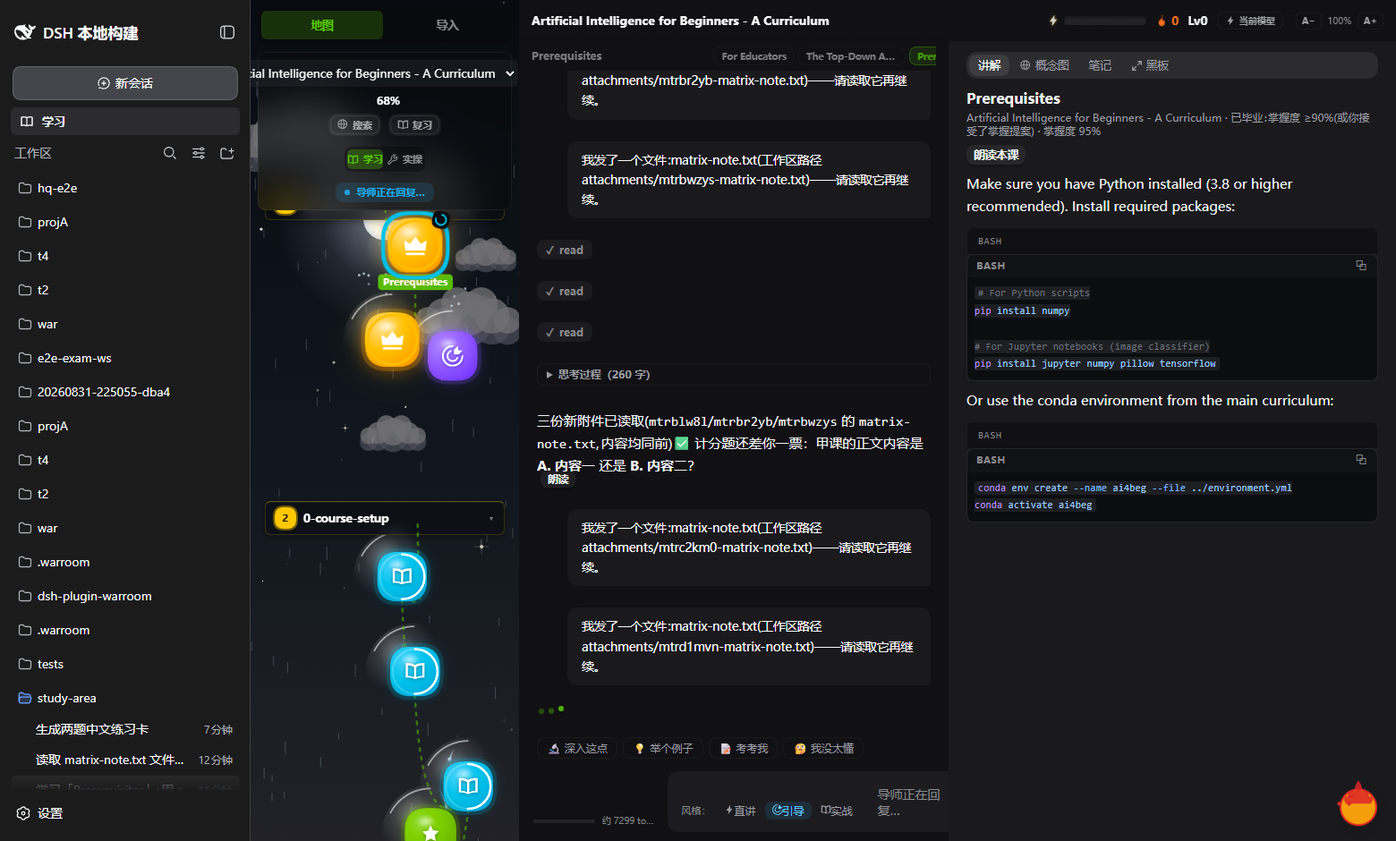
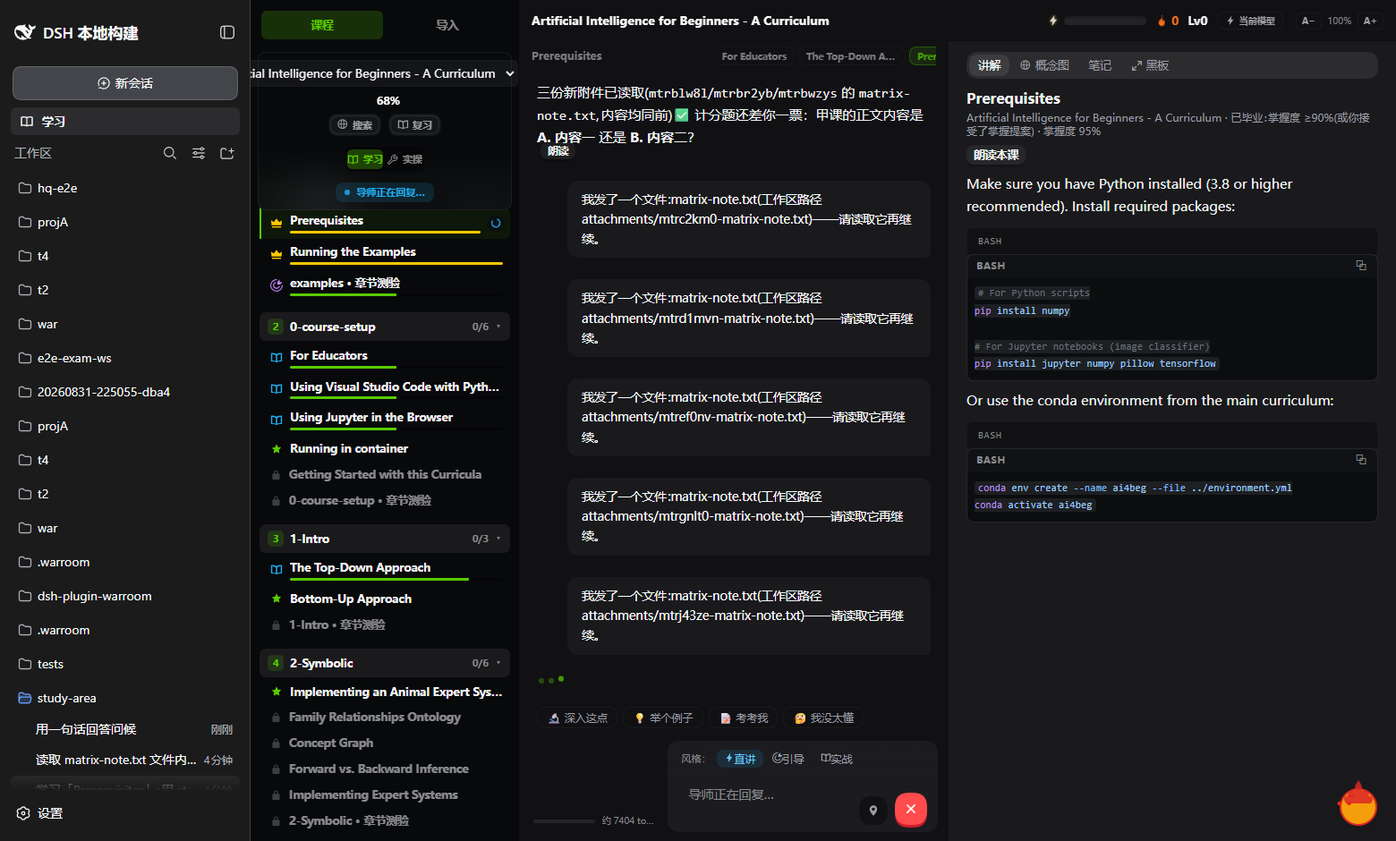
fix(ui): impeccable critique round — the headline catch was the LIGHT THEME being dead CSS: a stray orphan comment fragment (left by the list-pivot line surgery) merged into the next rule's prelude, silently dropping the entire .lks-ui[data-lks-theme='light'] token block (three-way confirmed by the 

diff --git a/src/client/upstream-theme.ts b/src/client/upstream-theme.ts
@@ -65,7 +65,7 @@ export const UPSTREAM_CSS = `
 .lks-ui .lks-hdr-title{flex:1;min-width:0;font-size:.825rem;font-weight:700;color:var(--ink-strong);overflow:hidden;text-overflow:ellipsis;white-space:nowrap}
 .lks-ui .lks-hdr-xp{display:flex;align-items:center;gap:5px;flex:none}
 .lks-ui .lks-hdr-xpbar{width:92px;height:10px;border-radius:999px;background:rgb(var(--ink-rgb)/0.08);overflow:hidden;box-shadow:inset 0 2px 3px rgb(var(--shadow-rgb)/0.3)}
-.lks-ui .lks-hdr-xpbar i{display:block;height:100%;background:linear-gradient(90deg,var(--gold),var(--gold-light));border-radius:999px;transition:width .5s var(--ease-out-expo)}
+.lks-ui .lks-hdr-xpbar i{display:block;height:100%;background:linear-gradient(90deg,var(--gold),var(--gold-light));border-radius:999px;transform-origin:left;transition:transform .5s var(--ease-out-expo)}
 .lks-ui .lks-hdr-stat{display:inline-flex;align-items:center;gap:4px;font-size:.825rem;font-weight:700;color:var(--ink);flex:none}
 .lks-ui .lks-hdr-streak{color:var(--review)}
 
@@ -101,9 +101,9 @@ export const UPSTREAM_CSS = `
 
 /* ── the composer capsule (claude.ai style) + circular 3D send ── */
 .lks-ui .lks14-composer{border-top:none;background:linear-gradient(to bottom,transparent 0%,var(--surface-1) 40%)}
-.lks-ui .lks14-composer-card{flex:1;display:flex;align-items:flex-end;gap:8px;background:rgb(var(--ink-rgb)/0.05);border-radius:1rem;padding:.625rem .75rem .5rem .875rem;transition:background .15s}
+.lks-ui .lks14-composer-card{flex:1;display:flex;flex-wrap:wrap;align-items:flex-end;gap:8px;background:rgb(var(--ink-rgb)/0.05);border-radius:1rem;padding:.625rem .75rem .5rem .875rem;transition:background .15s}
 .lks-ui .lks14-composer-card:focus-within{background:rgb(var(--ink-rgb)/0.07)}
-.lks-ui .lks14-composertext{background:transparent;border:none;box-shadow:none;color:var(--ink-strong);font-size:.875rem}
+.lks-ui .lks14-composertext{background:transparent;border:none;box-shadow:none;color:var(--ink-strong);font-size:.875rem;flex:1 1 120px;min-width:0}
 .lks-ui .lks14-composertext:focus{border-color:transparent}
 .lks-ui .lks14-composertext::placeholder{color:var(--ink-faint)}
 .lks-ui .lks-btn-send{width:36px;height:36px;border-radius:999px !important;padding:0 !important;display:inline-flex;align-items:center;justify-content:center;flex:none;background:var(--brand);color:#fff;box-shadow:0 3px 0 0 var(--brand-dark);border:none;cursor:pointer;transition:all .15s var(--ease-spring)}
@@ -207,12 +207,13 @@ export const UPSTREAM_CSS = `
 .lks-ui .lks-lessorow.st-available .lks-lessorow-glyph{color:var(--brand)}
 .lks-ui .lks-lessorow.st-in-progress .lks-lessorow-glyph{color:var(--accent)}
 .lks-ui .lks-lessorow.st-mastered .lks-lessorow-glyph{color:var(--gold)}
-.lks-ui .lks-lessorow.st-mastered .lks-lessorow-glyph svg{animation:lks-crown-sparkle 1.6s ease-in-out infinite}
+.lks-ui .lks-lessorow.st-mastered .lks-lessorow-glyph svg{animation:lks-crown-sparkle 1.6s ease-in-out 2}
 .lks-ui .lks-lessorow.st-exam .lks-lessorow-glyph,.lks-ui .lks-lessorow.st-exam-passed .lks-lessorow-glyph{color:var(--exam-light)}
 .lks-ui .lks-lessorow-main{flex:1;min-width:0;display:flex;flex-direction:column;gap:3px}
 .lks-ui .lks-lessorow-title{font-size:12.5px;font-weight:600;line-height:1.35;color:var(--ink);overflow:hidden;text-overflow:ellipsis;white-space:nowrap}
 .lks-ui .lks-lessorow-bar{display:block;height:3px;border-radius:2px;background:rgb(0 0 0/0.4);overflow:hidden}
 .lks-ui .lks-lessorow-bar i{display:block;height:100%;background:var(--brand);transform-origin:left;transition:transform .3s var(--ease-out-expo)}
+.lks-ui .lks-lessorow:focus-visible,.lks-ui .lks-railsec-head:focus-visible{outline:none;box-shadow:0 0 0 2px var(--business-primary)}
 .lks-ui .lks-lessorow.st-mastered .lks-lessorow-bar i{background:var(--gold)}
 .lks-ui .lks-lessorow-due{flex:none;min-width:15px;height:15px;display:inline-flex;align-items:center;justify-content:center;border-radius:999px;background:var(--review);color:#fff;font-size:10px;font-weight:800;box-shadow:0 0 0 2px var(--surface-1)}
 .lks-ui .lks-lessorow-spin{flex:none;display:flex;align-items:center;justify-content:center;width:17px;height:17px;border-radius:999px;background:var(--surface-0);color:var(--accent);box-shadow:0 2px 8px -2px rgb(var(--shadow-rgb)/0.45);pointer-events:none;animation:lks-spin 1s linear infinite}
@@ -353,13 +354,13 @@ export const UPSTREAM_CSS = `
 .lks-ui .lks14-raildemo{margin-bottom:10px}
 /* the full-rail overlays (search / review) */
 .lks-ui .lks-railoverlay{position:absolute;inset:0;z-index:50;display:flex;flex-direction:column;gap:8px;padding:12px;overflow-y:auto;
-  background:rgb(var(--surface-rail-rgb)/0.92);backdrop-filter:blur(8px);-webkit-backdrop-filter:blur(8px)}
+  background:rgb(var(--surface-rail-rgb)/0.97);backdrop-filter:blur(8px);-webkit-backdrop-filter:blur(8px)}
 .lks-ui .lks-railoverlay-head{display:flex;gap:8px;align-items:center}
 .lks-ui .lks-railoverlay-head .lks14-search{flex:1}
 /* chat: thin current-lesson row (ThreadSwitcher empty-state voice) */
 .lks-ui .lks14-lessonrow{flex:none;padding:6px 14px;font-size:12px;font-weight:700;color:var(--ink-muted);opacity:.75}
 /* composer: the soul pills ride the capsule's first row */
-.lks-ui .lks14-soulrow{display:flex;align-items:center;gap:6px;padding:0 2px 6px}
+.lks-ui .lks14-soulrow{display:flex;align-items:center;gap:6px;padding:0 2px 6px;width:100%}
 .lks-ui .lks14-soullabel{flex:none;font-size:11px;color:var(--ink-faint)}
 /* B6: assistant text is full-width prose (no card); user bubbles right-align */
 .lks-ui .lks14-msg-assistant{background:none;border:none;box-shadow:none;border-radius:0;padding:0;max-width:80ch;font-size:.9375rem}
@@ -502,7 +503,7 @@ export const UPSTREAM_CSS = `
 .lks-ui .lks14-exam-timer.warn{color:var(--warning-light);animation:lks-exam-timer-pulse 1s ease-in-out infinite}
 @keyframes lks-exam-timer-pulse{50%{opacity:.55}}
 .lks-ui .lks14-exam-track{height:6px;border-radius:999px;background:rgb(var(--shadow-rgb)/0.16);overflow:hidden;margin-bottom:20px;flex:none}
-.lks-ui .lks14-exam-track i{display:block;height:100%;border-radius:999px;background:var(--accent);transition:width 300ms var(--ease-out-quart)}
+.lks-ui .lks14-exam-track i{display:block;height:100%;border-radius:999px;background:var(--accent);transform-origin:left;transition:transform 300ms var(--ease-out-quart)}
 .lks-ui .lks14-exam-scroll{flex:1;min-height:0;overflow-y:auto;padding:0 4px 24px}
 .lks-ui .lks14-exam-kc{display:inline-flex;align-items:center;gap:5px;font-size:11.5px;color:var(--accent);background:rgb(var(--accent-rgb)/0.1);border-radius:999px;padding:4px 11px;margin-bottom:12px}
 .lks-ui .lks14-exam-prompt{font-size:16.5px;color:var(--ink-strong);line-height:1.65;margin-bottom:20px;white-space:pre-wrap;overflow-wrap:anywhere}
@@ -621,7 +622,6 @@ export const UPSTREAM_CSS = `
 /* ── P16: the light theme — upstream html.light verbatim, keyed to the panel's
    data-lks-theme (the host-following store drives it). Semantic hues keep
    their hue, only L drops for WCAG AA on white; shiki flips via --shiki-light. ── */
-   dark stones; shiki flips via --shiki-light. ── */
 .lks-ui[data-lks-theme='light']{
   --surface-rail:#F1F2F4;--surface-rail-rgb:241 242 244;
   --surface-0:#FFFFFF;--surface-0-rgb:255 255 255;
@@ -691,7 +691,7 @@ export const UPSTREAM_CSS = `
 /* E1: the context meter above the composer */
 .lks-ui .lks14-ctxmeter{display:flex;align-items:center;gap:8px;padding:0 4px 6px;font-size:10px;color:var(--ink-faint)}
 .lks-ui .lks14-ctxmeter-bar{flex:1;height:4px;border-radius:999px;background:rgb(var(--ink-rgb)/0.08);overflow:hidden}
-.lks-ui .lks14-ctxmeter-bar i{display:block;height:100%;border-radius:999px;background:var(--brand);transition:width .3s var(--ease-out-expo)}
+.lks-ui .lks14-ctxmeter-bar i{display:block;height:100%;border-radius:999px;background:var(--brand);transform-origin:left;transition:transform .3s var(--ease-out-expo)}
 .lks-ui .lks14-ctxmeter-bar i.hot{background:var(--warning)}
 .lks-ui .lks14-ctxmeter-label{flex:none;max-width:45%;overflow:hidden;text-overflow:ellipsis;white-space:nowrap}
 /* E6: the model face chip + catalog popover */
@@ -712,4 +712,34 @@ export const UPSTREAM_CSS = `
 .lks-ui .lks-btn-attach:hover:not(:disabled){color:var(--ink);background:var(--surface-2)}
 .lks-ui .lks-btn-attach:disabled{opacity:.4;cursor:not-allowed}
 .lks-ui .lks-btn-attach:focus-visible{box-shadow:0 0 0 2px var(--business-primary);outline:none}
+/* ── light-mode chrome sweep: the rail-head glass family hardcoded dark for
+   the map era; the list rail follows the theme, so the chrome reads
+   ink-on-surface here too ── */
+.lks-ui[data-lks-theme='light'] .lks14-railhead{background:rgb(255 255 255/0.72);border-color:var(--border-faint);box-shadow:0 1px 4px rgb(0 0 0/0.05)}
+.lks-ui[data-lks-theme='light'] .lks14-railtitle{color:var(--ink-strong);text-shadow:none}
+.lks-ui[data-lks-theme='light'] .lks14-railpct{color:var(--ink-strong);text-shadow:none}
+.lks-ui[data-lks-theme='light'] .lks-railtabs{background:rgb(255 255 255/0.72);box-shadow:0 1px 4px rgb(0 0 0/0.05)}
+.lks-ui[data-lks-theme='light'] .lks-railtab{color:var(--ink-muted)}
+.lks-ui[data-lks-theme='light'] .lks-railtab.on{color:var(--brand-dark)}
+.lks-ui[data-lks-theme='light'] .lks-railpill{background:rgb(0 0 0/0.04);box-shadow:inset 0 0 0 1px var(--border-faint);color:var(--ink)}
+.lks-ui[data-lks-theme='light'] .lks-railpill:hover{background:rgb(0 0 0/0.07)}
+.lks-ui[data-lks-theme='light'] .lks14-search{background:rgb(0 0 0/0.03);border-color:var(--border-faint)}
+.lks-ui[data-lks-theme='light'] .lks14-search::placeholder{color:var(--ink-faint)}
+.lks-ui[data-lks-theme='light'] .lks-worldswitch{background:rgb(0 0 0/0.05)}
+.lks-ui[data-lks-theme='light'] .lks-worldtab{color:var(--ink-muted)}
+.lks-ui[data-lks-theme='light'] .lks-worldtab:hover{color:var(--ink-strong)}
+.lks-ui[data-lks-theme='light'] .lks-worldtab.on{color:var(--brand-dark)}
+.lks-ui[data-lks-theme='light'] .lks-worldtab[data-testid='world-tab-practice'].on{color:var(--accent-dark)}
+.lks-ui[data-lks-theme='light'] .lks-empty-practice{color:var(--ink-muted)}
+.lks-ui[data-lks-theme='light'] .lks14-importtabs{background:rgb(0 0 0/0.04)}
+.lks-ui[data-lks-theme='light'] .lks14-importtab{color:var(--ink-muted)}
+.lks-ui[data-lks-theme='light'] .lks-railoverlay{background:rgb(241 242 244/0.97)}
+.lks-ui[data-lks-theme='light'] .lks-lessorow.st-mastered .lks-lessorow-glyph{color:var(--gold-dark)}
+.lks-ui[data-lks-theme='light'] .lks-lessorow.st-exam .lks-lessorow-glyph,.lks-ui[data-lks-theme='light'] .lks-lessorow.st-exam-passed .lks-lessorow-glyph{color:var(--exam)}
+.lks-ui[data-lks-theme='light'] .lks-lessorow-bar{background:rgb(0 0 0/0.08)}
+/* ambient glyph motion sleeps under reduced-motion (A7 never had a guard) */
+@media (prefers-reduced-motion: reduce){
+  .lks-ui .lks-lessorow.st-mastered .lks-lessorow-glyph svg,.lks-ui .lks-hdr-xp .lks-hdr-glyph,.lks-ui .lks-hdr-streak .lks-hdr-glyph{animation:none}
+}
+
 `

diff --git a/src/client/panel.tsx b/src/client/panel.tsx
@@ -586,7 +586,7 @@ function StudyPanelBody({ ctx }: { ctx: ClientContext }): ReactNode {
         createElement('span', { className: 'lks-hdr-title' }, lesson?.courseTitle ?? tr('tab.label')),
         createElement('span', { className: 'lks-hdr-xp', 'data-tooltip': tr('header.xp', { xp: progress?.totalXp ?? 0 }) },
           createElement('span', { className: 'lks-hdr-stat lks-hdr-glyph' }, createElement(IconBoltFill16, { size: 14 })),
-          createElement('span', { className: 'lks-hdr-xpbar' }, createElement('i', { style: { width: `${Math.min(100, progress?.levelPct ?? 0)}%` } }))),
+          createElement('span', { className: 'lks-hdr-xpbar' }, createElement('i', { style: { transform: `scaleX(${String(Math.min(100, progress?.levelPct ?? 0) / 100)})` } }))),
         createElement('span', { className: 'lks-hdr-stat lks-hdr-streak', 'data-tooltip': tr('header.streak') },
           createElement('span', { className: 'lks-hdr-glyph' }, createElement(IconFlameFill16, { size: 14 })),
           String(progress?.streak ?? 0)),
@@ -740,7 +740,7 @@ function CommandPalette({ searchLessons, courses, onClose, onLesson, onCourse, o
         actions.map(a => createElement('button', {
           key: a.id, className: 'lks14-palette-row', onClick: a.run,
         },
-          createElement('span', { className: 'lks14-palette-kind' }, '⌘K'),
+          createElement('span', { className: 'lks14-palette-kind' }, tr('palette.kind.action')),
           createElement('span', { className: 'lks14-palette-text' }, a.label))),
         lessons.length === 0 && courseRows.length === 0 && actions.length === 0
           ? createElement('div', { className: 'lks14-palette-empty' }, tr('palette.empty'))
@@ -1813,7 +1813,7 @@ function ChatPane({ data, lesson, rows, feedAttached, bound, busy, sendError, dr
       // pct + token pair; the estimate is labeled as such).
       createElement('div', { className: 'lks14-ctxmeter', 'data-testid': 'context-meter', 'data-estimated': String(contextMeter.estimated), title: tr('meter.label') },
         createElement('span', { className: 'lks14-ctxmeter-bar' },
-          createElement('i', { style: { width: `${String(contextMeter.pct ?? 0)}%` }, className: contextMeter.pct !== null && contextMeter.pct > 80 ? 'hot' : undefined })),
+          createElement('i', { style: { transform: `scaleX(${String((contextMeter.pct ?? 0) / 100)})` }, className: contextMeter.pct !== null && contextMeter.pct > 80 ? 'hot' : undefined })),
         createElement('span', { className: 'lks14-ctxmeter-label' }, contextMeter.estimated ? contextMeter.label : `${String(contextMeter.pct ?? 0)}% · ${contextMeter.label}`)),
       createElement('div', {
         className: 'lks14-composer-card',

diff --git a/src/client/locale.ts b/src/client/locale.ts
@@ -93,7 +93,7 @@ export const ZH: StudyDict = {
   'map.node.locked': '锁定 — 先完成前面的课时',
   'map.node.due': '到了复习时间',
   'map.exam.locked': '考试未解锁 — 本章节全部课时掌握度 ≥50% 后开放',
-  'map.tab.map': '地图',
+  'map.tab.map': '课程',
   'map.tab.import': '导入',
   'map.world.study': '学习',
   'map.world.practice': '实操',
@@ -183,6 +183,7 @@ export const ZH: StudyDict = {
   'palette.courses': '课程',
   'palette.review': '开始复习',
   'palette.study': '开始学习',
+  'palette.kind.action': '操作',
   'palette.empty': '没有匹配项',
   'threads.label': '课时线程',
   'meter.label': '上下文用量',
@@ -250,7 +251,7 @@ export const ZH: StudyDict = {
   'row.thinking.title': '导师正在推理,回复马上就来',
   'quiz.title': '点击选项作答,也可以直接打字回答',
   'quiz.answer': '选 {letter}:{text}',
-  'tutor.dormant': '学习模式已关闭 — 点右上「▶ 开始学习」开启导师,按钮恢复可用。',
+  'tutor.dormant': '学习模式已关闭 — 在下方对话区点「开始学习」即可唤醒导师。',
   'tutor.empty': '对话会出现在这里',
   'tutor.empty.hint': '在下方输入框和导师说话',
   'proposal.text': '导师提议你已掌握「{lesson}」:{rationale}',
@@ -438,7 +439,7 @@ export const EN: StudyDict = {
   'map.node.locked': 'Locked — finish the previous lessons first',
   'map.node.due': 'Due for review',
   'map.exam.locked': 'Exam locked — every lesson in this section needs ≥50% mastery',
-  'map.tab.map': 'Map',
+  'map.tab.map': 'Courses',
   'map.tab.import': 'Import',
   'map.world.study': 'Learn',
   'map.world.practice': 'Practice',
@@ -528,6 +529,7 @@ export const EN: StudyDict = {
   'palette.courses': 'Course',
   'palette.review': 'Start review',
   'palette.study': 'Start studying',
+  'palette.kind.action': 'Action',
   'palette.empty': 'No matches',
   'threads.label': 'Lesson threads',
   'meter.label': 'Context usage',
@@ -595,7 +597,7 @@ export const EN: StudyDict = {
   'row.thinking.title': 'The tutor is reasoning; the reply is coming',
   'quiz.title': 'Click an option to answer, or just type',
   'quiz.answer': 'Choose {letter}: {text}',
-  'tutor.dormant': 'Study mode is off — click "▶ Start learning" above to wake the tutor and re-enable these controls.',
+  'tutor.dormant': 'Study mode is off — click "Start learning" in the conversation pane below to wake the tutor.',
   'tutor.empty': 'The conversation will appear here',
   'tutor.empty.hint': 'Talk to the tutor in the input below',
   'proposal.text': 'The tutor proposes you have mastered "{lesson}": {rationale}',

diff --git a/src/client/maprail.tsx b/src/client/maprail.tsx
@@ -8,6 +8,7 @@
 import { createElement, type CSSProperties, type ReactNode } from 'react'
 import { IconBookFill16, IconCrownFill16, IconGoalOutline16, IconLoaderArc16, IconLockFill16, IconStarFill16 } from './icons.tsx'
 import { tr } from './locale.ts'
+import { statusTitle } from './views.tsx'
 
 /** The rail lesson projection (a structural slice of StudyData's section lessons). */
 export interface MapLesson {
@@ -79,13 +80,22 @@ export function ListSectionView({ section, examAllowed, open, onToggle, onJump, 
           const locked = lesson.status === 'locked' || (lesson.kind === 'exam' && !examAllowed)
           const pct = rowMasteryPct(lesson)
           const state = rowStateClass(lesson, examAllowed)
+          // the second tooltip slot carries STATE, not the title repeated:
+          // gating/lock/due when relevant, otherwise status + live mastery.
+          const stateWord = lesson.kind === 'exam' && !examAllowed
+            ? tr('map.exam.locked')
+            : locked
+              ? tr('map.node.locked')
+              : lesson.due
+                ? tr('map.node.due')
+                : `${statusTitle('study', lesson.status)}${pct !== null ? ` · ${String(pct)}%` : ''}`
           return createElement('button', {
             key: lesson.id,
             type: 'button',
             className: `lks-lessorow st-${state}${lesson.focus ? ' selected' : ''}`,
             'data-node-id': lesson.id,
             'aria-disabled': locked || undefined,
-            'data-tooltip': `${lesson.title} — ${lesson.kind === 'exam' && !examAllowed ? tr('map.exam.locked') : locked ? tr('map.node.locked') : lesson.due ? tr('map.node.due') : lesson.title}`,
+            'data-tooltip': `${lesson.title} — ${stateWord}`,
             onClick: () => { if (!locked) onJump(lesson.id) },
           },
           createElement('span', { className: 'lks-lessorow-glyph', 'aria-hidden': 'true' },

diff --git a/tests/client-node.test.ts b/tests/client-node.test.ts
@@ -183,6 +183,18 @@ test('the upstream v0.28 skin is layered over the panel foundation (P9a)', async
   assert.match(STUDY_CSS, /\.lks14-body\[data-pane='rail'\] \.lks14-righthalf\{display:none\}/, 'narrow rail mode hides the whole right half')
 })
 
+test('the light token block survives the CSS comment parse (P18 live regression)', async () => {
+  const { UPSTREAM_CSS } = await import('../src/client/upstream-theme.ts')
+  // a stray fragment outside a comment merges into the next rule's prelude and
+  // silently DROPS it — this killed the whole light theme once (2026-09-08,
+  // caught by the critique run: light hosts got a dark panel with light-only
+  // shiki/scrollbar fragments applied on top)
+  const stripped = UPSTREAM_CSS.replace(/\/\*[\s\S]*?\*\//g, '')
+  assert.match(stripped, /\.lks-ui\[data-lks-theme='light'\]\{\s*--surface-rail:#F1F2F4/, 'the light token ladder opens as a live rule once comments are stripped')
+  assert.match(stripped, /\.lks-ui\[data-lks-theme='light'\] \.lks14-railhead\{/, 'the light chrome sweep rides a live rule too')
+  assert.equal((UPSTREAM_CSS.match(/\/\*/g) ?? []).length, (UPSTREAM_CSS.match(/\*\//g) ?? []).length, 'comment delimiters stay balanced')
+})
+
 test('the audit gate script exists with an exit-code contract', async () => {
   const { readFileSync } = await import('node:fs')
   const src = readFileSync(new URL('../scripts/audit-ui.mjs', import.meta.url), 'utf8')

diff --git a/src/client/tooltip.tsx b/src/client/tooltip.tsx
@@ -59,16 +59,21 @@ export function GlobalTooltip(): ReactNode {
     const onUp = (): void => {
       if (pressTimer.current !== null) { clearTimeout(pressTimer.current); pressTimer.current = null }
     }
+    // a click dismisses — reading a tooltip over the thing you just acted on
+    // must not outlive the action
+    const onClick = (): void => { setTip(null) }
 
     document.addEventListener('pointermove', onMove)
     document.addEventListener('pointerleave', onLeave)
     document.addEventListener('pointerdown', onDown)
     document.addEventListener('pointerup', onUp)
+    document.addEventListener('click', onClick)
     return () => {
       document.removeEventListener('pointermove', onMove)
       document.removeEventListener('pointerleave', onLeave)
       document.removeEventListener('pointerdown', onDown)
       document.removeEventListener('pointerup', onUp)
+      document.removeEventListener('click', onClick)
       if (pressTimer.current !== null) clearTimeout(pressTimer.current)
     }
   }, [])

diff --git a/src/client/examview.tsx b/src/client/examview.tsx
@@ -328,7 +328,7 @@ export function ExamView({ lessonId, sectionTitle, paused, onSessionChange }: {
           `${String(Math.floor(timeLeft / 60))}:${String(timeLeft % 60).padStart(2, '0')}`),
       ),
       createElement('div', { className: 'lks14-exam-track' },
-        createElement('i', { style: { width: `${String(Math.round((currentIdx / Math.max(1, exercises.length)) * 100))}%` } })),
+        createElement('i', { style: { transform: `scaleX(${String(Math.round((currentIdx / Math.max(1, exercises.length)) * 100) / 100)})` } })),
       createElement('div', { className: 'lks14-exam-scroll', ref: answerScrollRef },
         currentQ.kcTitle !== null
           ? createElement('span', { className: 'lks14-exam-kc' }, createElement(IconThinkOutline16, { size: 13 }), currentQ.kcTitle)

diff --git a/scripts/tmp-fix-critique.py b/scripts/tmp-fix-critique.py
@@ -1,0 +1,117 @@
+# one-shot critique fix batch (deleted after use)
+import io, re
+
+# ── upstream-theme.ts ──
+p = 'src/client/upstream-theme.ts'
+src = io.open(p, encoding='utf-8').read()
+
+bad = """   their hue, only L drops for WCAG AA on white; shiki flips via --shiki-light. ── */
+   dark stones; shiki flips via --shiki-light. ── */
+"""
+assert bad in src, 'orphan fragment not found'
+src = src.replace(bad, """   their hue, only L drops for WCAG AA on white; shiki flips via --shiki-light. ── */
+""")
+
+old = ".lks-ui .lks14-composer-card{flex:1;display:flex;align-items:flex-end;gap:8px;"
+assert old in src, 'composer card'
+src = src.replace(old, ".lks-ui .lks14-composer-card{flex:1;display:flex;flex-wrap:wrap;align-items:flex-end;gap:8px;")
+old = ".lks-ui .lks14-soulrow{display:flex;align-items:center;gap:6px;padding:0 2px 6px}"
+assert old in src, 'soulrow'
+src = src.replace(old, ".lks-ui .lks14-soulrow{display:flex;align-items:center;gap:6px;padding:0 2px 6px;width:100%}")
+old = ".lks-ui .lks14-composertext{background:transparent;border:none;box-shadow:none;color:var(--ink-strong);font-size:.875rem}"
+assert old in src, 'composertext'
+src = src.replace(old, ".lks-ui .lks14-composertext{background:transparent;border:none;box-shadow:none;color:var(--ink-strong);font-size:.875rem;flex:1 1 120px;min-width:0}")
+
+old = ".lks-ui .lks-lessorow.st-mastered .lks-lessorow-glyph svg{animation:lks-crown-sparkle 1.6s ease-in-out infinite}"
+assert old in src, 'crown'
+src = src.replace(old, ".lks-ui .lks-lessorow.st-mastered .lks-lessorow-glyph svg{animation:lks-crown-sparkle 1.6s ease-in-out 2}")
+
+old = ".lks-ui .lks-hdr-xpbar i{display:block;height:100%;background:linear-gradient(90deg,var(--gold),var(--gold-light));border-radius:999px;transition:width .5s var(--ease-out-expo)}"
+assert old in src, 'xpbar'
+src = src.replace(old, ".lks-ui .lks-hdr-xpbar i{display:block;height:100%;background:linear-gradient(90deg,var(--gold),var(--gold-light));border-radius:999px;transform-origin:left;transition:transform .5s var(--ease-out-expo)}")
+old = ".lks-ui .lks14-exam-track i{display:block;height:100%;border-radius:999px;background:var(--accent);transition:width 300ms var(--ease-out-quart)}"
+assert old in src, 'exam track'
+src = src.replace(old, ".lks-ui .lks14-exam-track i{display:block;height:100%;border-radius:999px;background:var(--accent);transform-origin:left;transition:transform 300ms var(--ease-out-quart)}")
+
+old = ".lks-ui .lks-lessorow-bar i{display:block;height:100%;background:var(--brand);transform-origin:left;transition:transform .3s var(--ease-out-expo)}"
+assert old in src, 'row bar'
+src = src.replace(old, old + "\n.lks-ui .lks-lessorow:focus-visible,.lks-ui .lks-railsec-head:focus-visible{outline:none;box-shadow:0 0 0 2px var(--business-primary)}")
+
+old = "background:rgb(var(--surface-rail-rgb)/0.92);backdrop-filter:blur(8px);-webkit-backdrop-filter:blur(8px)}"
+assert old in src, 'overlay'
+src = src.replace(old, "background:rgb(var(--surface-rail-rgb)/0.97);backdrop-filter:blur(8px);-webkit-backdrop-filter:blur(8px)}")
+
+src += """
+/* ── light-mode chrome sweep: the rail-head glass family hardcoded dark for
+   the map era; the list rail follows the theme, so the chrome reads
+   ink-on-surface here too ── */
+.lks-ui[data-lks-theme='light'] .lks14-railhead{background:rgb(255 255 255/0.72);border-color:var(--border-faint);box-shadow:0 1px 4px rgb(0 0 0/0.05)}
+.lks-ui[data-lks-theme='light'] .lks14-railtitle{color:var(--ink-strong);text-shadow:none}
+.lks-ui[data-lks-theme='light'] .lks14-railpct{color:var(--ink-strong);text-shadow:none}
+.lks-ui[data-lks-theme='light'] .lks-railtabs{background:rgb(255 255 255/0.72);box-shadow:0 1px 4px rgb(0 0 0/0.05)}
+.lks-ui[data-lks-theme='light'] .lks-railtab{color:var(--ink-muted)}
+.lks-ui[data-lks-theme='light'] .lks-railtab.on{color:var(--brand-dark)}
+.lks-ui[data-lks-theme='light'] .lks-railpill{background:rgb(0 0 0/0.04);box-shadow:inset 0 0 0 1px var(--border-faint);color:var(--ink-muted)}
+.lks-ui[data-lks-theme='light'] .lks-railpill:hover{background:rgb(0 0 0/0.07)}
+.lks-ui[data-lks-theme='light'] .lks14-search{background:rgb(0 0 0/0.03);border-color:var(--border-faint)}
+.lks-ui[data-lks-theme='light'] .lks14-search::placeholder{color:var(--ink-faint)}
+.lks-ui[data-lks-theme='light'] .lks-worldswitch{background:rgb(0 0 0/0.05)}
+.lks-ui[data-lks-theme='light'] .lks-worldtab{color:var(--ink-muted)}
+.lks-ui[data-lks-theme='light'] .lks-worldtab:hover{color:var(--ink-strong)}
+.lks-ui[data-lks-theme='light'] .lks-worldtab.on{color:var(--brand-dark)}
+.lks-ui[data-lks-theme='light'] .lks-worldtab[data-testid='world-tab-practice'].on{color:var(--accent-dark)}
+.lks-ui[data-lks-theme='light'] .lks-empty-practice{color:var(--ink-muted)}
+.lks-ui[data-lks-theme='light'] .lks14-importtabs{background:rgb(0 0 0/0.04)}
+.lks-ui[data-lks-theme='light'] .lks14-importtab{color:var(--ink-muted)}
+.lks-ui[data-lks-theme='light'] .lks-railoverlay{background:rgb(241 242 244/0.97)}
+.lks-ui[data-lks-theme='light'] .lks-lessorow.st-mastered .lks-lessorow-glyph{color:var(--gold-dark)}
+.lks-ui[data-lks-theme='light'] .lks-lessorow.st-exam .lks-lessorow-glyph,.lks-ui[data-lks-theme='light'] .lks-lessorow.st-exam-passed .lks-lessorow-glyph{color:var(--exam)}
+.lks-ui[data-lks-theme='light'] .lks-lessorow-bar{background:rgb(0 0 0/0.08)}
+/* ambient glyph motion sleeps under reduced-motion (A7 never had a guard) */
+@media (prefers-reduced-motion: reduce){
+  .lks-ui .lks-lessorow.st-mastered .lks-lessorow-glyph svg,.lks-ui .lks-hdr-xp .lks-hdr-glyph,.lks-ui .lks-hdr-streak .lks-hdr-glyph{animation:none}
+}
+"""
+io.open(p, 'w', encoding='utf-8', newline='\n').write(src)
+print('upstream-theme: fixes in')
+
+# ── panel.tsx ──
+p = 'src/client/panel.tsx'
+src = io.open(p, encoding='utf-8').read()
+old = "createElement('span', { className: 'lks-hdr-xpbar' }, createElement('i', { style: { width: `${Math.min(100, progress?.levelPct ?? 0)}%` } }))"
+assert old in src, 'xpbar js'
+src = src.replace(old, "createElement('span', { className: 'lks-hdr-xpbar' }, createElement('i', { style: { transform: `scaleX(${String(Math.min(100, progress?.levelPct ?? 0) / 100)})` } }))")
+old = "createElement('i', { style: { width: `${String(contextMeter.pct ?? 0)}%` }, className: contextMeter.pct !== null && contextMeter.pct > 80 ? 'hot' : undefined })),"
+assert old in src, 'ctxmeter js'
+src = src.replace(old, "createElement('i', { style: { transform: `scaleX(${String((contextMeter.pct ?? 0) / 100)})` }, className: contextMeter.pct !== null && contextMeter.pct > 80 ? 'hot' : undefined })),")
+old = "createElement('span', { className: 'lks14-palette-kind' }, '\u2318K'),"
+assert old in src, 'palette chip'
+src = src.replace(old, "createElement('span', { className: 'lks14-palette-kind' }, tr('palette.kind.action')),")
+io.open(p, 'w', encoding='utf-8', newline='\n').write(src)
+print('panel: scaleX x2 + palette kind')
+
+# ── examview.tsx ──
+p = 'src/client/examview.tsx'
+src = io.open(p, encoding='utf-8').read()
+m = re.search(r"createElement\('i', \{ style: \{ width: `\$\{String\(Math\.round\(\(currentIdx[^}]+\} \}\)\),", src)
+assert m, 'exam track js'
+new = m.group(0).replace("style: { width: ", "style: { transform: ").replace(")%` } }", ") / 100)})` } }")
+new = new.replace("`scaleX(${String(Math.round((currentIdx / Math.max(1, exercises.length)) * 100)", "`scaleX(${String(Math.round((currentIdx / Math.max(1, exercises.length)) * 100)")
+src = src.replace(m.group(0), new)
+io.open(p, 'w', encoding='utf-8', newline='\n').write(src)
+print('examview: track scaleX')
+
+# ── locale.ts ──
+p = 'src/client/locale.ts'
+src = io.open(p, encoding='utf-8').read()
+src = src.replace("'map.tab.map': '地图',", "'map.tab.map': '课程',", 1)
+src = src.replace("'map.tab.map': 'Map',", "'map.tab.map': 'Courses',", 1)
+src = src.replace("'tutor.dormant': '学习模式已关闭 — 点右上「▶ 开始学习」开启导师,按钮恢复可用。',",
+                  "'tutor.dormant': '学习模式已关闭 — 在下方对话区点「开始学习」即可唤醒导师。',")
+src = src.replace("'tutor.dormant': 'Study mode is off — click \"▶ Start learning\" above to wake the tutor and re-enable these controls.',",
+                  "'tutor.dormant': 'Study mode is off — click \"Start learning\" in the conversation pane below to wake the tutor.',")
+assert src.count("'palette.empty':") == 2, 'palette.empty count'
+src = src.replace("  'palette.empty':", "  'palette.kind.action': '操作',\n  'palette.empty':", 1)
+src = src.replace("  'palette.empty':", "  'palette.kind.action': 'Action',\n  'palette.empty':", 1)
+io.open(p, 'w', encoding='utf-8', newline='\n').write(src)
+print('locale: labels + dormant copy + kind key')
